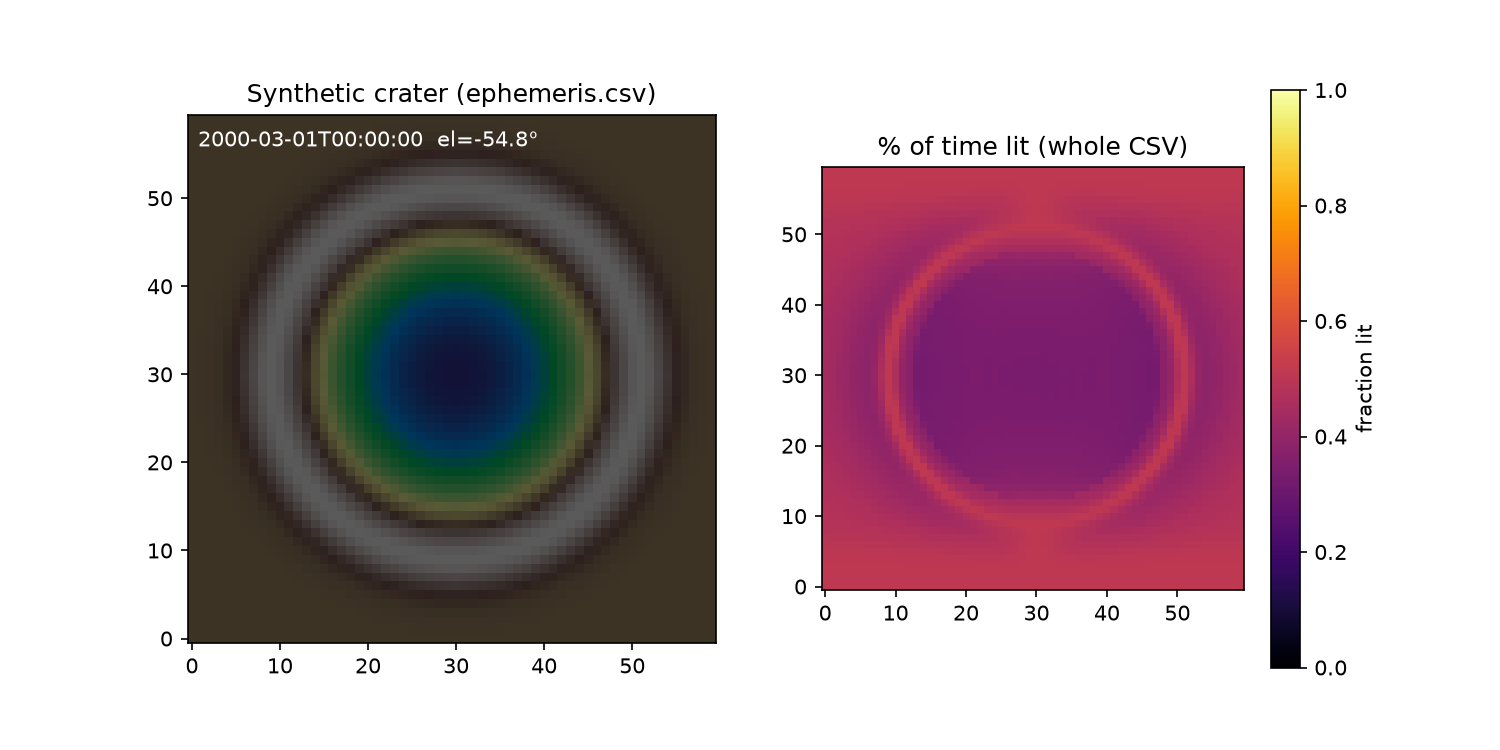
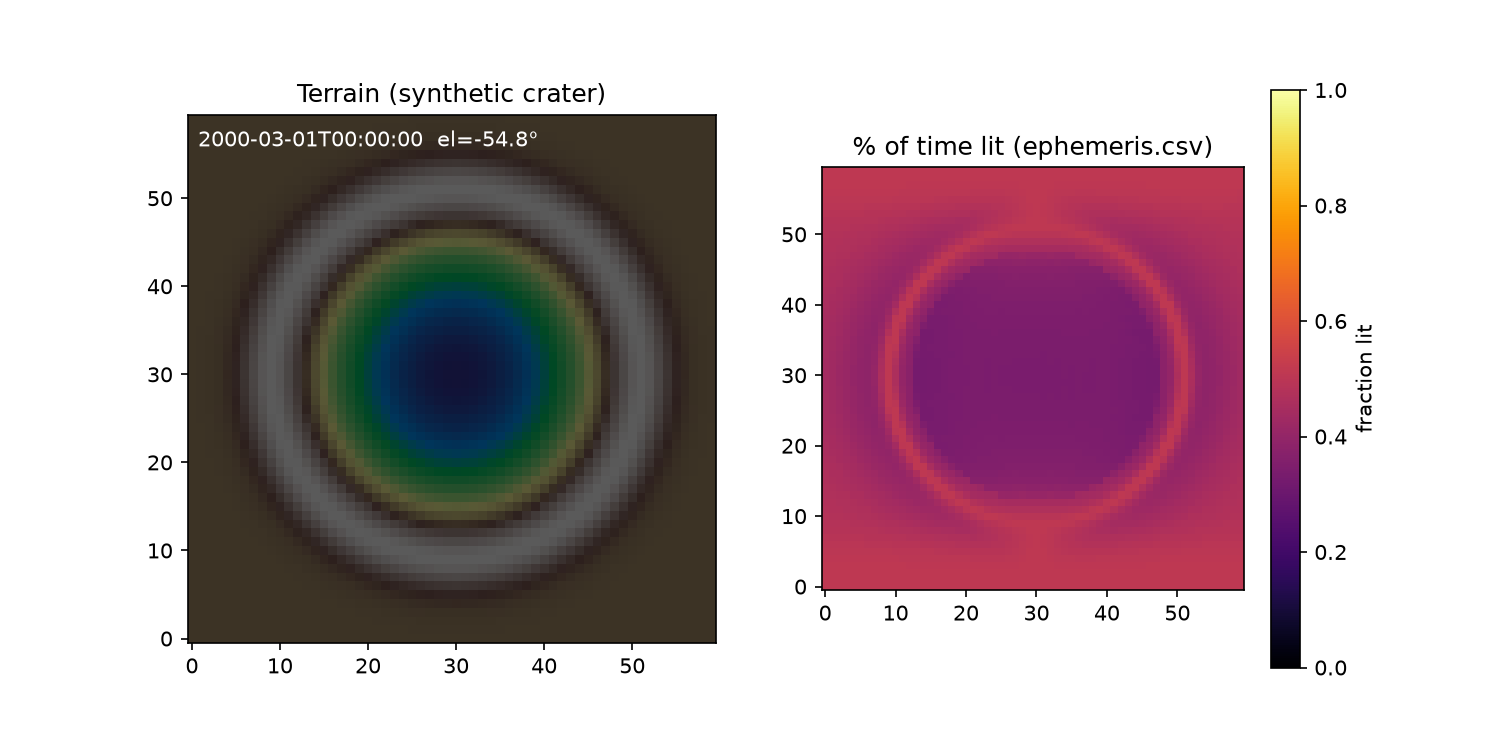
heightmap

Changed region(s): [[0.1533, 0.092, 0.4293, 0.1533], [0.552, 0.184, 0.7973, 0.2147]]

diff --git a/shadow_heightmap.py b/shadow_heightmap.py
@@ -4,63 +4,40 @@ import matplotlib.pyplot as plt
 import numpy as np
 from matplotlib.animation import FuncAnimation
 
+from heightmap import synthetic_crater, load_lola_crop, shadow_mask, illumination_map
+
 csv_path = sys.argv[1] if len(sys.argv) > 1 else "ephemeris.csv"
 gif_path = sys.argv[2] if len(sys.argv) > 2 else "shadow_heightmap.gif"
+dem_path = sys.argv[3] if len(sys.argv) > 3 else None   # cropped LOLA GeoTIFF; omit for the synthetic crater
 
 data = np.genfromtxt(csv_path, delimiter=',', names=True, dtype=None, encoding=None)
 az = np.radians(data["sun_az"])
 el = data["sun_el"]
 utc = data["utc"]
 
-# --- synthetic crater heightmap: a bowl with a raised rim, cell units = 1 ---
-N = 60
-X, Y = np.meshgrid(np.arange(N), np.arange(N))
-R = np.hypot(X - N / 2, Y - N / 2)
-crater_r, rim_r, depth, rim_h = N * 0.3, N * 0.35, 8.0, 4.0
-heightmap = -depth * np.clip(1 - (R / crater_r) ** 2, 0, None)
-heightmap += rim_h * np.exp(-((R - rim_r) / (N * 0.06)) ** 2)
-
-
-def shadow_mask(sun_az, sun_el):
-    """Horizon shadowing: march every cell toward the sun; it's shadowed if
-    any intervening cell pokes above the sun ray's height at that distance."""
-    if sun_el <= 0:
-        return np.ones_like(heightmap, dtype=bool)
-    dx, dy = np.sin(sun_az), np.cos(sun_az)
-    tan_el = np.tan(np.radians(sun_el))
-    blocked = np.zeros_like(heightmap, dtype=bool)
-    for d in range(1, int(np.hypot(N, N)) + 1):
-        Xi, Yi = X + dx * d, Y + dy * d
-        in_bounds = (Xi >= 0) & (Xi < N) & (Yi >= 0) & (Yi < N)
-        sample_h = heightmap[np.clip(Yi.round().astype(int), 0, N - 1),
-                              np.clip(Xi.round().astype(int), 0, N - 1)]
-        blocked |= in_bounds & (sample_h > heightmap + d * tan_el)
-    return blocked
-
+heightmap = load_lola_crop(dem_path) if dem_path else synthetic_crater()
+N = heightmap.shape[0]
 
 fig, (ax, ax2) = plt.subplots(1, 2, figsize=(10, 5))
 
 ax.imshow(heightmap, cmap="terrain", origin="lower")
-ax.set_title(f"Synthetic crater ({csv_path})")
+ax.set_title(f"Terrain ({dem_path or 'synthetic crater'})")
 overlay = ax.imshow(np.zeros((N, N, 4)), origin="lower")   # RGBA shadow layer
 label = ax.text(0.02, 0.97, "", transform=ax.transAxes, va="top", color="white")
 
 # Illumination map: fraction of rows each cell is lit over the whole CSV,
 # computed once up front rather than accumulated frame-by-frame in update().
-lit_fraction = np.zeros_like(heightmap)
-for i in range(len(utc)):
-    lit_fraction += ~shadow_mask(az[i], el[i])
-lit_fraction /= len(utc)
+lit_fraction = illumination_map(heightmap, az, el)
 
 im2 = ax2.imshow(lit_fraction, cmap="inferno", origin="lower", vmin=0, vmax=1)
-ax2.set_title("% of time lit (whole CSV)")
+ax2.set_title(f"% of time lit ({csv_path})")
 fig.colorbar(im2, ax=ax2, label="fraction lit")
 
 frames = range(0, len(utc), 3)   # every 3rd row keeps the GIF under ~12s at 20fps
 
 
 def update(i):
-    mask = shadow_mask(az[i], el[i])
+    mask = shadow_mask(heightmap, az[i], el[i])
     rgba = np.zeros((N, N, 4))
     rgba[..., 3] = np.where(mask, 0.65, 0.0)   # opaque dark where shadowed
     overlay.set_data(rgba)

diff --git a/heightmap.py b/heightmap.py
@@ -1,0 +1,53 @@
+"""Shared crater heightmap + horizon-shadowing logic for shadow_heightmap.py
+and illumination_compare.py, so both animate/compare the same terrain."""
+
+import numpy as np
+
+N_DEFAULT = 60
+
+
+def synthetic_crater(n=N_DEFAULT):
+    """Bowl + raised rim, cell units = 1."""
+    X, Y = np.meshgrid(np.arange(n), np.arange(n))
+    R = np.hypot(X - n / 2, Y - n / 2)
+    crater_r, rim_r, depth, rim_h = n * 0.3, n * 0.35, 8.0, 4.0
+    h = -depth * np.clip(1 - (R / crater_r) ** 2, 0, None)
+    h += rim_h * np.exp(-((R - rim_r) / (n * 0.06)) ** 2)
+    return h
+
+
+def load_lola_crop(path, size=100):
+    """Load a cropped LOLA GeoTIFF and downsample it to `size` x `size`
+    cells (nearest-neighbor decimation, adequate for this demo)."""
+    import rasterio
+    with rasterio.open(path) as src:
+        arr = src.read(1).astype(float)
+    step = max(arr.shape[0] // size, arr.shape[1] // size, 1)
+    return arr[::step, ::step][:size, :size]
+
+
+def shadow_mask(heightmap, sun_az, sun_el):
+    """Horizon shadowing: march every cell toward the sun; it's shadowed if
+    any intervening cell pokes above the sun ray's height at that distance."""
+    n = heightmap.shape[0]
+    if sun_el <= 0:
+        return np.ones_like(heightmap, dtype=bool)
+    X, Y = np.meshgrid(np.arange(n), np.arange(n))
+    dx, dy = np.sin(sun_az), np.cos(sun_az)
+    tan_el = np.tan(np.radians(sun_el))
+    blocked = np.zeros_like(heightmap, dtype=bool)
+    for d in range(1, int(np.hypot(n, n)) + 1):
+        Xi, Yi = X + dx * d, Y + dy * d
+        in_bounds = (Xi >= 0) & (Xi < n) & (Yi >= 0) & (Yi < n)
+        sample_h = heightmap[np.clip(Yi.round().astype(int), 0, n - 1),
+                              np.clip(Xi.round().astype(int), 0, n - 1)]
+        blocked |= in_bounds & (sample_h > heightmap + d * tan_el)
+    return blocked
+
+
+def illumination_map(heightmap, az, el):
+    """Fraction of the (az, el) rows each cell is lit."""
+    lit = np.zeros_like(heightmap)
+    for a, e in zip(az, el):
+        lit += ~shadow_mask(heightmap, a, e)
+    return lit / len(az)

diff --git a/illumination_compare.py b/illumination_compare.py
@@ -1,0 +1,30 @@
+import sys
+
+import matplotlib.pyplot as plt
+import numpy as np
+
+from heightmap import synthetic_crater, illumination_map
+
+eq_path = sys.argv[1] if len(sys.argv) > 1 else "ephemeris.csv"
+polar_path = sys.argv[2] if len(sys.argv) > 2 else "ephemeris_polar.csv"
+
+heightmap = synthetic_crater()
+N = heightmap.shape[0]
+cy = cx = N // 2
+
+fig, axes = plt.subplots(1, 2, figsize=(10, 5))
+titles = ["Equatorial, 0.67°N 23.3°E", "Polar, 85°S 23.3°E"]
+
+for ax, csv_path, title in zip(axes, [eq_path, polar_path], titles):
+    data = np.genfromtxt(csv_path, delimiter=',', names=True, dtype=None, encoding=None)
+    az = np.radians(data["sun_az"])
+    el = data["sun_el"]
+    lit = illumination_map(heightmap, az, el)
+    im = ax.imshow(lit, cmap="inferno", origin="lower", vmin=0, vmax=1)
+    ax.set_title(f"{title}\nfloor lit {lit[cy, cx] * 100:.0f}%")
+
+fig.colorbar(im, ax=axes, label="fraction lit", shrink=0.8)
+fig.suptitle("Same synthetic crater, same month — site latitude is the only difference")
+
+plt.savefig("illumination_compare.png", dpi=150)
+plt.show()

diff --git a/README.md b/README.md
@@ -18,7 +18,9 @@ Its purpose is to validate the geometry before it is reimplemented in Unreal
 | `ephemeris_polar.csv` | Same run, site 85°S — Sun circles the horizon instead of arcing overhead. |
 | `skyplot.py` | Animates the Sun's daily arc + Earth cluster on a polar sky plot. Reads `ephemeris.csv`. |
 | `shadow.py` | Animates a unit block's shadow (`L = h/tan(el)`), plus an `L` vs time panel. `python shadow.py [csv] [gif]`. |
-| `shadow_heightmap.py` | Horizon-shadowing over a synthetic crater heightmap: per-cell, per-frame line-of-sight to the Sun. Also writes an illumination map (% of the CSV's timespan each cell is lit). `python shadow_heightmap.py [csv] [gif]`. |
+| `heightmap.py` | Shared terrain + horizon-shadowing logic (`synthetic_crater`, `load_lola_crop`, `shadow_mask`, `illumination_map`) used by the two scripts below. Not a standalone script. |
+| `shadow_heightmap.py` | Horizon-shadowing animation over a heightmap: per-cell, per-frame line-of-sight to the Sun. Writes `illumination_map.png` (% of the CSV's timespan each cell is lit). `python shadow_heightmap.py [csv] [gif] [dem.tif]` — omit `dem.tif` for the built-in synthetic crater, or pass a cropped LOLA GeoTIFF to shadow real terrain. |
+| `illumination_compare.py` | Same synthetic crater against two CSVs side by side (default: `ephemeris.csv` vs `ephemeris_polar.csv`) → `illumination_compare.png`. `python illumination_compare.py [csv1] [csv2]`. |
 | `skyfieldvalidation.py` | Independent cross-check of a CSV against Skyfield (see Validation). |
 | `*.gif` / `*.png` | Generated by the scripts above — not source, safe to delete and regenerate. |
 
@@ -148,24 +150,35 @@ python skyplot.py                                   # ephemeris.csv -> skyplot.g
 python shadow.py                                     # ephemeris.csv -> shadow.gif
 python shadow.py ephemeris_polar.csv shadow_polar.gif
 python shadow_heightmap.py                           # -> shadow_heightmap.gif + illumination_map.png
+python illumination_compare.py                        # -> illumination_compare.png
 ```
 
-`shadow_heightmap.py` builds a synthetic bowl-plus-rim crater (no LOLA tile
-yet) and, per frame, marches every cell toward the Sun to see whether another
-cell's height pokes above the sun ray — horizon-based shadowing, the same
-algorithm the "% of time lit" overlay would use. It also sums the boolean
-shadow map over every row in the CSV into an illumination map: on the
-default equatorial site, the crater floor comes out lit ~34% of the time
-against ~50% for the rim and surrounding flat ground.
+`shadow_heightmap.py` builds a synthetic bowl-plus-rim crater by default and,
+per frame, marches every cell toward the Sun to see whether another cell's
+height pokes above the sun ray — horizon-based shadowing, the same algorithm
+the "% of time lit" overlay would use. It also sums the boolean shadow map
+over every row in the CSV into an illumination map: on the default
+equatorial site, the crater floor comes out lit ~34% of the time against
+~50% for the rim and surrounding flat ground.
 
 Run against `ephemeris_polar.csv` (85°S), the same crater's floor is lit
 **0%** of the month — a permanently shadowed region, the low-sun-angle
 geometry that makes polar craters candidates for water ice — while the rim
-still sees ~55%. That's the more interesting illumination map of the two.
+still sees ~55%. `illumination_compare.py` puts both side by side
+(`illumination_compare.png`) — same crater, same month, latitude is the
+only difference — and is the clearer demo than either heatmap alone.
+
+The terrain and shadow logic live in `heightmap.py` so both scripts (and
+any future ones) share one implementation. `load_lola_crop(path, size=100)`
+reads a real LOLA GeoTIFF crop with `rasterio` and downsamples it to
+`size`×`size` cells — pass that path as `shadow_heightmap.py`'s third
+argument to shadow actual terrain instead of the synthetic crater. Not yet
+run against a real tile (none downloaded here); `pip install rasterio` first.
 
 ## Next
 
 - Reimplement steps 3–6 in Unreal with the MaxQ plugin (same function names:
   `spkpos`, `latrec`); diff its output against `ephemeris.csv`.
-- Swap the synthetic crater in `shadow_heightmap.py` for a real LOLA tile
-  cropped to ~50 px, so the illumination map reflects actual terrain.
+- Point `shadow_heightmap.py` at a real LOLA tile (`load_lola_crop` in
+  `heightmap.py` is written but untested against actual GeoTIFF data) so
+  the illumination map reflects real terrain, not the synthetic crater.
